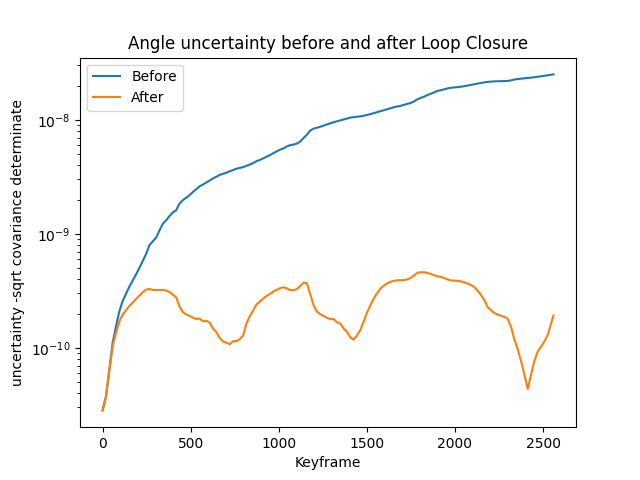
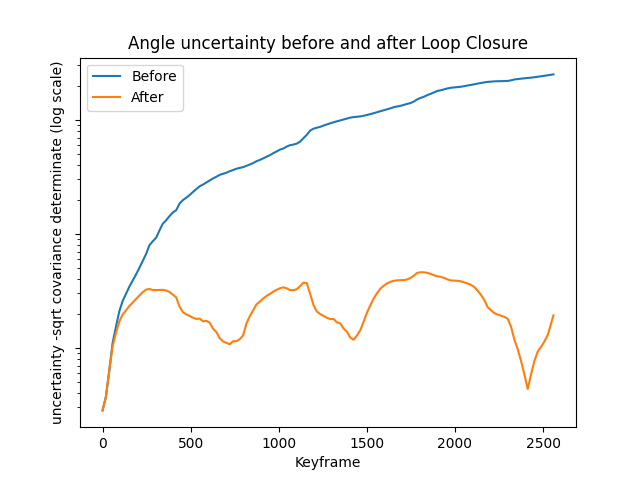
add some documentation and fix graphs

Changed region(s): [[0.0, 0.125, 0.125, 0.875]]

diff --git a/VAN_ex/code/ProjectReport.py b/VAN_ex/code/ProjectReport.py
@@ -51,6 +51,7 @@ def show_locations_trajectory(ground_truth_locations, pnp_locations, bundle_adju
     ax.scatter(x=loop_closure_locations[:, 0], y=loop_closure_locations[:, 2],
                label='Loop Closure', s=30, alpha=0.7, c='tab:red')
     ax.legend(fontsize='20')
+    ax.set_title('Loclization Trajectory - bird eye view')
     plt.xlabel('x')
     plt.ylabel('z')
     plt.savefig(f'{OUTPUT_DIR}localization.png')
@@ -62,7 +63,7 @@ def plot_bundle_error_before_after_opt(keyframes_list, mean_factor_error_before,
         go.Scatter(x=keyframes_list, y=mean_factor_error_before, mode='lines', name='Before'))
     fig.add_trace(
         go.Scatter(x=keyframes_list, y=mean_factor_error_after, mode='lines', name='After'))
-    fig.update_layout(title=title, xaxis_title='Keyframe id', yaxis_title=title)
+    fig.update_layout(title=f'{title} before and after BA optimization', xaxis_title='Keyframe id', yaxis_title=title)
     fig.write_image(f'{OUTPUT_DIR}{title}.png')
 
 
@@ -100,7 +101,7 @@ def PnP_median_projection_error_per_distance():
                 left_projection_err[distance] = [left_err]
                 right_projection_err[distance] = [right_err]
 
-    distances = np.array(list(right_projection_err.keys()))
+    distances = np.array(sorted(right_projection_err.keys()))
     median_proj_err_left = np.array([statistics.median(left_projection_err[d]) for d in distances])
     median_proj_err_right = np.array([statistics.median(right_projection_err[d]) for d in distances])
 
@@ -209,9 +210,12 @@ def plot_uncertainty(cov_list_before, cov_list_after, keyframes, title):
     plt.plot(keyframes, det_cov_before, label="Before")
     plt.plot(keyframes, det_cov_after, label="After")
     plt.yscale('log')
-    plt.ylabel("uncertainty -sqrt covariance determinate")
+    plt.ylabel("uncertainty -sqrt covariance determinate (log scale)")
     plt.xlabel("Keyframe")
     plt.legend()
+
+    ax = plt.gca()
+    ax.set_yticklabels([])
 
     fig.savefig(f'{OUTPUT_DIR}{title}_uncertainty_before_after_loop_closure.png')
     plt.close(fig)
@@ -297,7 +301,7 @@ if __name__ == '__main__':
     pnp_locations = utils.calculate_ground_truth_locations_from_matrices(pnp_mats)
     print("finished read data")
 
-    bundle_adjustment = BundleAdjustment(2560, 20, db)
+    bundle_adjustment = BundleAdjustment(utils.FRAMES_NUM, 20, db)
     keyframes_list = bundle_adjustment.get_keyframes()
     mean_factor_error_before = bundle_adjustment.get_mean_factor_error_for_all_windows()
     median_projection_error_before = bundle_adjustment.get_median_projection_error_for_all_windows()
@@ -317,7 +321,7 @@ if __name__ == '__main__':
     loop_closure = LoopClosure(db, pose_graph, threshold_close=500,
                                threshold_inliers_rel=0.4)
     full_cov_before_LC = np.array(pose_graph.get_covraince_all_poses())
-    loops_dict = loop_closure.find_loops(OUTPUT_DIR)
+    loops_dict = loop_closure.find_loops(OUTPUT_DIR, plot=False)
     full_cov_after_LC = np.array(pose_graph.get_covraince_all_poses())
     loop_closure_poses = pose_graph.get_global_keyframes_poses()  # dict
     loop_closure_mats = from_gtsam_poses_to_world_coordinates_mats(loop_closure_poses)
@@ -336,12 +340,12 @@ if __name__ == '__main__':
     # mean factor error for each window
     plot_bundle_error_before_after_opt \
         (keyframes_list, mean_factor_error_before, mean_factor_error_after,
-         'mean factor error before and after BA optimization')
+         'mean factor error')
 
     # median projection error for each window
     plot_bundle_error_before_after_opt \
         (keyframes_list, median_projection_error_before, median_projection_error_after,
-         'median projection error before and after BA optimization')
+         'median projection error')
 
     PnP_median_projection_error_per_distance()  # distance from last frame of track were we computed triangulation
 
@@ -390,4 +394,4 @@ if __name__ == '__main__':
         ba_errors_angle.append(angle_errors)
         ba_sequences_list.append(sequences)
     plot_relative_estimation_error_in_sequences('BA', 'location', [100, 300, 800], ba_errors_location, ba_sequences_list)
-    plot_relative_estimation_error_in_sequences('PnP', 'angle', [100, 300, 800], ba_errors_angle, ba_sequences_list)
+    plot_relative_estimation_error_in_sequences('BA', 'angle', [100, 300, 800], ba_errors_angle, ba_sequences_list)

diff --git a/VAN_ex/code/ex3.py b/VAN_ex/code/ex3.py
@@ -14,6 +14,12 @@ K = None
 
 
 def project_3d_pt_to_pixel(extrinsic_camera_mat, pt_3d):
+    """
+    This function projects a 3d point to a 2d pixel on an image
+    :param extrinsic_camera_mat: np array with shape (3,4), represents extrinsic camera matrix
+    :param pt_3d: np array with shape (3,1), represents 3d point in the world
+    :return: np array with shape (2,1), represents a projected pixel in the image
+    """
     pt_3d_h = np.append(pt_3d, [1])
     projected = K @ extrinsic_camera_mat @ pt_3d_h
     return projected[0:2] / projected[2]
@@ -155,15 +161,17 @@ def read_matrices(path):
 
 def ex3_run():
     # 3.1
-    img0_left, img0_right, kp0_left, des0_left, kp0_right, des0_right, points_cloud_0, dict_matches0 = utils.match_and_triangulate_image(0)
-    img1_left, img1_right, kp1_left, des1_left, kp1_right, des1_right, points_cloud_1, dict_matches1 = utils.match_and_triangulate_image(1)
+    img0_left, img0_right, kp0_left, des0_left, kp0_right, des0_right, points_cloud_0, dict_matches0 = utils.match_and_triangulate_image(
+        0)
+    img1_left, img1_right, kp1_left, des1_left, kp1_right, des1_right, points_cloud_1, dict_matches1 = utils.match_and_triangulate_image(
+        1)
 
     # 3.2
     matches_0_1_left = utils.find_matches(np.array(des0_left), np.array(des1_left))
 
     # 3.3
     random.seed(4)
-    kp0_left_l, des0_left_l, kp1_left_l, des1_left_l, dict_matches0_1_left =\
+    kp0_left_l, des0_left_l, kp1_left_l, des1_left_l, dict_matches0_1_left = \
         utils.get_correlated_kps_and_des_from_matches(kp0_left, des0_left, kp1_left, des1_left, matches_0_1_left)
     points_2d, points_3d = sample_4_points(kp0_left_l, kp1_left_l, points_cloud_0)
     global K
@@ -176,8 +184,9 @@ def ex3_run():
 
     # 3.4
     # we used the points_cloud_0 because there, the 3d points are aligned to the global coordinate
-    supporter_left0, supporter_left1, unsupporter_left0, unsupporter_left1 =\
-        find_supporters(kp0_left_l, kp1_left_l, points_cloud_0, extrinsic_camera_mat_left1, extrinsic_camera_mat_right1, dict_matches1, is_find_unsupported=True)
+    supporter_left0, supporter_left1, unsupporter_left0, unsupporter_left1 = \
+        find_supporters(kp0_left_l, kp1_left_l, points_cloud_0, extrinsic_camera_mat_left1, extrinsic_camera_mat_right1,
+                        dict_matches1, is_find_unsupported=True)
 
     plot_supporters_and_unsupporters_on_img(img0_left, supporter_left0, unsupporter_left0, 'img0_left_supporters.png')
     plot_supporters_and_unsupporters_on_img(img1_left, supporter_left1, unsupporter_left1, 'img1_left_supporters.png')
@@ -271,4 +280,5 @@ def plot_cameras_positions(extrinsic_camera_mat_left1, extrinsic_camera_mat_righ
     fig.write_html(f'{OUTPUT_DIR}cameras_pos.html')
 
 
-ex3_run()
+if __name__ == '__main__':
+    ex3_run()

diff --git a/VAN_ex/code/ex4.py b/VAN_ex/code/ex4.py
@@ -119,8 +119,13 @@ def tracks_length_histogram(db):
 
 
 def reprojection_error(db):
+    """ Present a graph of the reprojection error size (L2 norm) over random track images.
+    We’ll define the reprojection error for a given camera as the difference between the projection
+    and the tracked feature location on that camera.
+    :param db:
+    """
     track = db.get_random_track_in_len(10)
-    ground_truth_matrices = utils.read_ground_truth_matrices("C:\\Users\\Miryam\\SLAM\\VAN_ex\\dataset\\poses\\05.txt")
+    ground_truth_matrices = utils.read_ground_truth_matrices(utils.GROUND_TRUTH_PATH)
     last_frame_id, kp_idx = track.get_last_frame_id_and_kp_idx()
     pt_3d = db.get_frame_obj(last_frame_id).get_3d_point(kp_idx)  # in coordinates of last frame
     mat = ground_truth_matrices[last_frame_id]
@@ -148,25 +153,18 @@ def reprojection_error(db):
 
     fig = go.Figure()
     fig.add_trace(
-        go.Scatter(x=frames_arr, y=reprojection_error_left, mode='lines+markers', name='Left error'
-                   # title=f"Reprojection error size (L2 norm) over track {track.get_id()} images",
-                   # labels={'x': 'Frame', 'y': 'Reprojection error'})
-                   ))
+        go.Scatter(x=frames_arr, y=reprojection_error_left, mode='lines+markers', name='Left error'))
     fig.add_trace(
-        go.Scatter(x=frames_arr, y=reprojection_error_right, mode='lines+markers', name='Right error'
-                   # title=f"Reprojection error size (L2 norm) over track {track.get_id()} images",
-                   # labels={'x': 'Frame', 'y': 'Reprojection error'})
-                   ))
+        go.Scatter(x=frames_arr, y=reprojection_error_right, mode='lines+markers', name='Right error'))
     fig.update_layout(title=f"Reprojection error size (L2 norm) over track {track.get_id()} images",
                       xaxis_title='Frame id', yaxis_title='Reprojection error')
     fig.write_image(f"{OUTPUT_DIR}reprojection_error.png")
 
 
 def ex4_run():
-
     # 4.1 Create, fill and serialize the database from the frames images while removing outliers
     db = DataBase()
-    db.fill_database(2560)
+    db.fill_database(utils.FRAMES_NUM)
     db.save_database('C:\\Users\\Miryam\\SLAM\\VAN_ex\\code\\DB\\')
 
     # 4.2 Present tracking statistics
@@ -200,6 +198,7 @@ def ex4_run():
     utils.show_localization(locations, ground_truth_locations, f'{OUTPUT_DIR}localization.png')
 
     return 0
+
 
 if __name__ == '__main__':
     ex4_run()

diff --git a/VAN_ex/code/ex5.py b/VAN_ex/code/ex5.py
@@ -16,6 +16,10 @@ os.makedirs(OUTPUT_DIR, exist_ok=True)
 WINDOW_LEN = 20
 
 def create_intrinsic_mat():
+    """
+    read intrinsic matrix from a file and create gtsam object of it
+    :return: gtsam object that represents the intrinsic camera matrix of
+    """
     k, _, m_right = utils.read_cameras()
     indentation_right_cam = m_right[0][3]
     K = gtsam.Cal3_S2Stereo(k[0][0], k[1][1], k[0][1], k[0][2], k[1][2], -indentation_right_cam)
@@ -23,6 +27,11 @@ def create_intrinsic_mat():
 
 
 def reprojection_and_factor_error(db):
+    """
+    Calculate and plot graphs of reprojection error, factor error and reprojection error as a function of factor error,
+    All the error are evaluated from a random track
+    :param db:
+    """
     track = db.get_random_track_in_len(10)
     frames_cameras, real_pts_2d = create_frames_cameras_and_pixels_from_track(db, track)
 
@@ -120,9 +129,7 @@ def q5_2(db):
 def q5_3(db):
     ground_truth_matrices = utils.read_ground_truth_matrices()
     ground_truth_locations = utils.calculate_ground_truth_locations_from_matrices(ground_truth_matrices)
-    # mean_track_len, max_track_len, min_track_len = db.get_mean_max_and_min_track_len()
-    # median_track_len = db.get_median_track_len()
-    alg = BundleAdjustment(2560, WINDOW_LEN, db)
+    alg = BundleAdjustment(utils.FRAMES_NUM, WINDOW_LEN, db)
     alg.optimize_all_windows()
     last_window = alg.get_last_window()
     print("Final position of first frame of last window: ",
@@ -222,13 +229,14 @@ def run_ex5():
     # 5.1
     reprojection_and_factor_error(db)
 
-    # 5.2
+    # 5.2 bundle adjustment window
     q5_2(db)
 
-    # 5.3
+    # 5.3 convert to world coordinates, plot the localization and the error
     q5_3(db)
 
     return 0
 
 
-run_ex5()
+if __name__ == '__main__':
+    run_ex5()

diff --git a/VAN_ex/code/LoopClosure.py b/VAN_ex/code/LoopClosure.py
@@ -67,7 +67,7 @@ class LoopClosure:
             extract_matches(outliers_matches, kp_left_first, kp_right_first, kp_left_second, kp_right_second)
         return extrinsic_camera_mat_second_frame_left, inliers_i, inliers_n, outliers_i, outliers_n
 
-    def find_loops(self, output_dir):
+    def find_loops(self, output_dir, plot=True):
         loops_dict = dict()
         keyframes_list = self._pose_graph.get_keyframes()
         interval_len = int(len(keyframes_list) / 6)
@@ -87,7 +87,7 @@ class LoopClosure:
                     # 7.4
                     self._pose_graph.add_factor(i_keyframe, n_keyframe, pose_i_to_n, cov_i_to_n)
                     self._pose_graph.optimize()
-            if j % interval_len == 0:
+            if j % interval_len == 0 and plot:
                 self._pose_graph.show(f"{output_dir}pose_graph_after_keyframe_{n_keyframe}.png", n_keyframe)
         return loops_dict
 

diff --git a/VAN_ex/code/Bundle/BundleAdjustment.py b/VAN_ex/code/Bundle/BundleAdjustment.py
@@ -91,7 +91,7 @@ class BundleAdjustment:
         projection_error_right = dict()
         for window in self._bundle_windows.values():
             window.calc_projection_error_per_distance(projection_error_left, projection_error_right)
-        distances = np.array(list(projection_error_right.keys()))
+        distances = np.array(sorted(projection_error_right.keys()))
         median_proj_err_left = np.array([statistics.median(projection_error_left[d]) for d in distances])
         median_proj_err_right = np.array([statistics.median(projection_error_right[d]) for d in distances])
         return distances, median_proj_err_left, median_proj_err_right

diff --git a/VAN_ex/code/ex7.py b/VAN_ex/code/ex7.py
@@ -81,7 +81,7 @@ if __name__ == '__main__':
     db = DataBase()
     db.read_database(utils.DB_PATH)
     print("finished read data")
-    bundle_adjustment = BundleAdjustment(2560, 20, db)
+    bundle_adjustment = BundleAdjustment(utils.FRAMES_NUM, 20, db)
     bundle_adjustment.optimize_all_windows()
     print("finished bundle adjustment")
     pose_graph = PoseGraph(bundle_adjustment)

diff --git a/VAN_ex/code/utils.py b/VAN_ex/code/utils.py
@@ -9,6 +9,7 @@ from matplotlib import pyplot as plt
 DATA_PATH = r'/mnt/c/Users/Miryam/SLAM/VAN_ex/dataset/sequences/05/'
 DB_PATH = r'/mnt/c/Users/Miryam/SLAM/VAN_ex/code/DB/'
 GROUND_TRUTH_PATH = '/mnt/c/Users/Miryam/SLAM/VAN_ex/dataset/poses/05.txt'
+FRAMES_NUM = 2560
 
 
 def read_images(idx):

diff --git a/VAN_ex/code/ex6.py b/VAN_ex/code/ex6.py
@@ -15,7 +15,7 @@ def ex6_run():
     db = DataBase()
     db.read_database(utils.DB_PATH)
 
-    bundle_adjustment = BundleAdjustment(2560, 20, db)
+    bundle_adjustment = BundleAdjustment(utils.FRAMES_NUM, 20, db)
     bundle_adjustment.optimize_all_windows()
 
     q6_1(bundle_adjustment)

diff --git a/VAN_ex/code/ex1.py b/VAN_ex/code/ex1.py
@@ -133,4 +133,5 @@ def ex1_run():
     draw_matches_signi_test(img1, img2, kp1, kp2, fail_matches, OUTPUT_DIR + 'fail_matches.png')
 
 
-ex1_run()
+if __name__ == '__main__':
+    ex1_run()

diff --git a/VAN_ex/code/ex2.py b/VAN_ex/code/ex2.py
@@ -247,4 +247,5 @@ def ex2_run():
     show_dots_3d_cloud(dots_3d_clean, f"{OUTPUT_DIR}our_3D_points_cloud_img{0}_clean.html")
 
 
-ex2_run()
+if __name__ == '__main__':
+    ex2_run()
